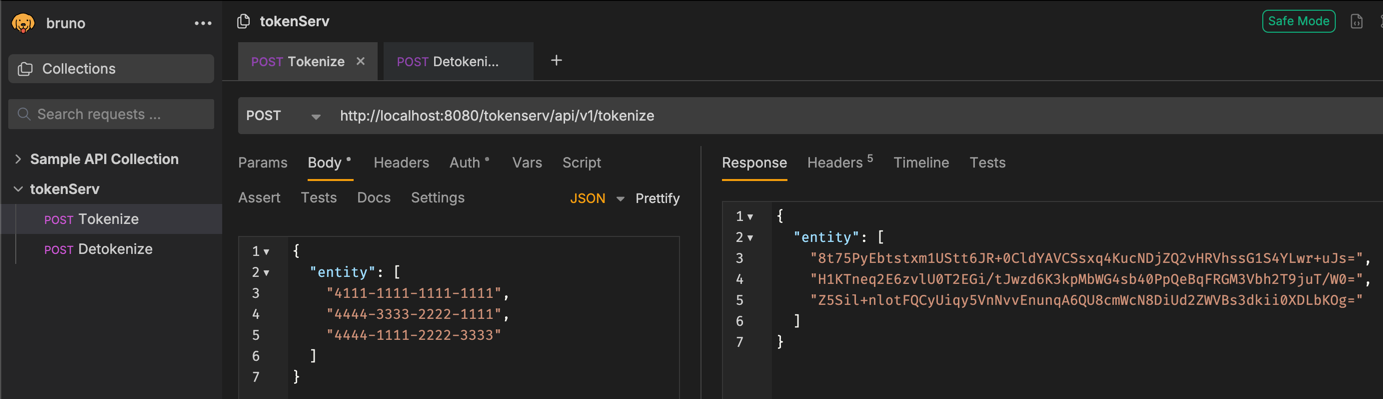
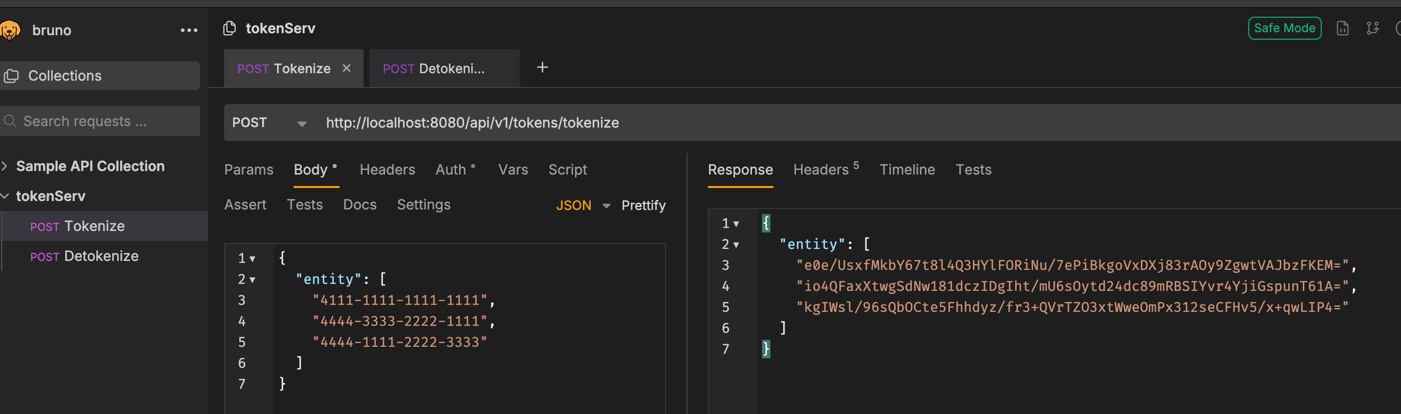
URL mapping modified

diff --git a/tokenserv-api/src/main/java/com/anz/platform/common/tokenserv/controller/TokenServController.java b/tokenserv-api/src/main/java/com/anz/platform/common/tokenserv/controller/TokenServController.java
@@ -21,7 +21,7 @@ import org.springframework.web.bind.annotation.RestController;
 
 
 @RestController
-@RequestMapping("/tokenserv/api/v1/")
+@RequestMapping("/api/v1/tokens")
 @Tag(
         name = "Token Service",
         description = "APIs for tokenizing and detokenizing sensitive data"

diff --git a/README.md b/README.md
@@ -23,7 +23,6 @@ This service:
 * Java 17+
 * Spring Boot
 * Spring Web (REST APIs)
-* Spring Data JPA
 * H2 In-Memory Database
 * JUnit 4 (unit testing)
 * Maven
@@ -33,6 +32,7 @@ This service:
 ## 🏗 Architecture Overview
 
 * **Controller layer** – Exposes REST endpoints
+* **Exception Handler** – Handles the exceptions returned to controller
 * **Service layer** – Handles tokenization and detokenization logic
 * **Repository layer** – Persists token ↔ account mappings
 * **H2 in-memory DB** – Stores mappings for the lifetime of the application
@@ -41,17 +41,12 @@ Design principles followed:
 
 * Single Responsibility Principle
 * Clear separation of concerns
-* No overengineering
+* Basic solution 
 * Easy to test and reason about
 
 ---
 
 ## 🚀 Running the Application Locally
-
-### Prerequisites
-
-* Java 17 or later
-* Maven 3.8+
 
 ### Start the service
 
@@ -93,8 +88,8 @@ http://localhost:8080/v3/api-docs
 
 | Method | Endpoint      | Description                      |
 | ------ | ------------- | -------------------------------- |
-| POST   | `/tokenize`   | Tokenize account numbers         |
-| POST   | `/detokenize` | Convert tokens back to originals |
+| POST   | `/api/v1/tokens/tokenize`   | Tokenize account numbers         |
+| POST   | `/api/v1/tokens/detokenize` | Convert tokens back to originals |
 
 ---
 
@@ -102,7 +97,7 @@ http://localhost:8080/v3/api-docs
 
 ### 1⃣ Tokenize
 
-**POST** `/tokenize`
+**POST** `/api/v1/tokens/tokenize`
 
 **Request Body**
 
@@ -128,7 +123,7 @@ http://localhost:8080/v3/api-docs
 
 ### 2⃣ Detokenize
 
-**POST** `/detokenize`
+**POST** `/api/v1/tokens/detokenize`
 
 **Request Body**
 
